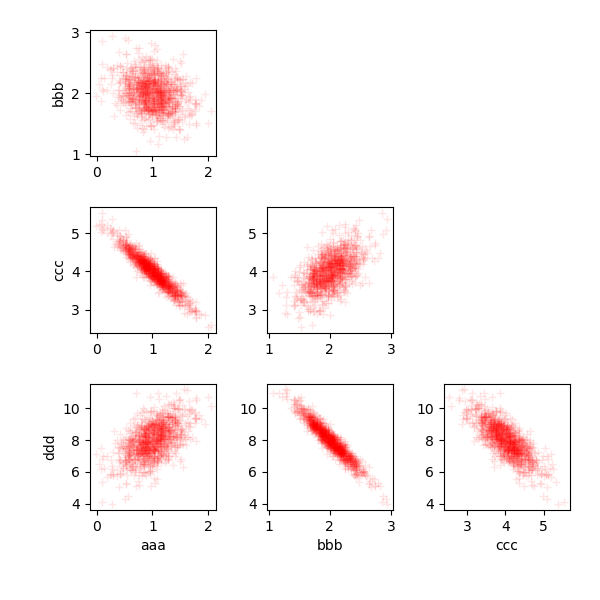
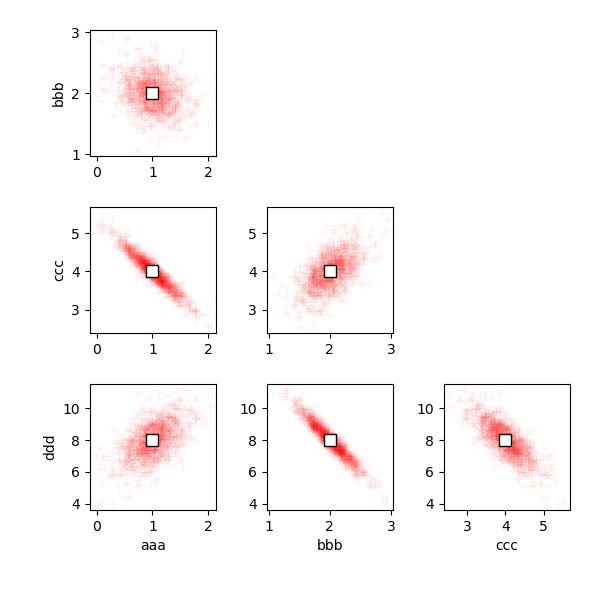
Add statement of intent to readme

diff --git a/stairplots.py b/stairplots.py
@@ -19,7 +19,7 @@ import matplotlib.pyplot as _ppl
 class Stairplots():
 
 	def __init__(self,
-		fields, labels,
+		fields, labels = None,
 		subplots_adjust = (.15, .15, .95, .95, .4, .4),
 		sharexy = True,
 		):
@@ -34,9 +34,9 @@ class Stairplots():
 		"""
 
 		self.fields = [_ for _ in fields]
-		self.labels = [_ for _ in labels]
+		self.labels = [_ for _ in fields] if labels is None else [_ for _ in labels]
 
-		_ppl.subplots_adjust(*subplots_adjust_args)
+		_ppl.subplots_adjust(*subplots_adjust)
 
 		N = len(labels)
 		axes = {}
@@ -60,15 +60,18 @@ class Stairplots():
 		Plot data in the proper location of a stairplot
 	
 		Parameters:
-			datadict (dict): a dictionary of the form `{f1: <array-like>, f2: <array-like>}`,
-				where `f1` and `f2` are the fields corresponding to each array-like to plot.
+			datadict (dict): a dictionary of the form `{f1: <array-like>, f2: <array-like>, ...}`,
+				where `f1`, `f2`, ... are fields corresponding to each array-like to plot.
 				These fields will determine which subplot to use, and whether each field
 				should plot along the X or Y axis.
 			*args, **kwargs: to be passed on to `plot()`
 	
 		Returns:
-			whatever `plot()` returns
+			List of values returned by `plot()`
 		"""
-		i, j = sorted([self.fields.index(_) for _ in datadict])
-		fi, fj = self.fields[i], self.fields[j]
-		return self.axes[(fi, fj)].plot(datadict[fi], datadict[fj], *args, **kwargs)
+		indices = sorted([self.fields.index(_) for _ in datadict])
+		fields = [self.fields[_] for _ in indices]
+		return [
+			self.axes[(fi, fj)].plot(datadict[fi], datadict[fj], *args, **kwargs)
+			for _, fi in enumerate(fields[:-1]) for fj in fields[_+1:]
+			]

diff --git a/stairplots_example.py b/stairplots_example.py
@@ -25,6 +25,9 @@ data = rng.multivariate_normal(
 	size = Ndata,
 	)
 
+data = {f: data[:,k] for k,f in enumerate(fields)}
+meandata = {_: data[_].mean() for _ in data}
+
 ### CREATE THE STAIRPLOTS ###
 
 from stairplots import *
@@ -33,13 +36,7 @@ import matplotlib.pyplot as ppl
 ppl.figure(figsize = (6,6))
 sp = Stairplots(fields, labels)
 
-for j in range(N):
-	for k in range(N):
-		if j<k:
-			sp.plot(
-				{fields[j]: data[:,j], fields[k]: data[:,k]},
-				'r+',
-				alpha = 0.1,
-				)
+sp.plot(data, 'r+', alpha = 0.05)
+sp.plot(meandata, 'ws', mec = 'k', mew = 1, ms = 8)
 
 ppl.savefig('stairplots.png')

diff --git a/readme.md b/readme.md
@@ -1,8 +1,27 @@
 # Stairplots
 
-Simple library to create stairplots in `matplotlib`. Stairplots provide a simple way to visualize multidimensional data, with each dimension plotted against every other dimension.
+Simple library to create stairplots in `matplotlib`. Stairplots provide a simple way to visualize multidimensional data, with each dimension plotted against every other dimension. The main goal is to let the user specify data and/or model predictions in arbitrary subsets of the multi-dimensional space and let the code take care of where to plot these values. Originally inspired by [corner.py](https://github.com/dfm/corner.py).
 
-## Example
+For example, you might have one set of (*x*, *y*) data, another set of (*y*, *z*) data, and a model predicting (*x*, *y*, *z*) trajectories. In that case, you could plot everything by simply calling:
+
+```py
+data_1 = dict(x = xdata1, y = ydata1)
+# xdata1 and ydata1 are two array-likes with identical shapes
+
+data_2 = dict(y = ydata2, z = zdata2)
+# ydata2 and zdata2 are two array-likes with identical shapes
+
+model = dict(x = xmodel, y = ymodel, z = zmodel)
+# xmodel, ymodel, and zmodel are three array-likes with identical shapes
+
+sp = Stairplots(['x', 'y', 'z'])
+
+sp.plot(data_1, 'ws', mec = 'r')
+sp.plot(data_2, 'wo', mec = 'b')
+sp.plot(model, 'g-', lw = 2)
+```
+
+## Complete example
 
 ```py
 ### GENERATE SOME RANDOM DATA ###
@@ -30,6 +49,9 @@ data = rng.multivariate_normal(
     size = Ndata,
     )
 
+data = {f: data[:,k] for k,f in enumerate(fields)}
+meandata = {_: data[_].mean() for _ in data}
+
 ### CREATE THE STAIRPLOTS ###
 
 from stairplots import *
@@ -38,14 +60,8 @@ import matplotlib.pyplot as ppl
 ppl.figure(figsize = (6,6))
 sp = Stairplots(fields, labels)
 
-for j in range(N):
-    for k in range(N):
-        if j<k:
-            sp.plot(
-                {fields[j]: data[:,j], fields[k]: data[:,k]},
-                'r+',
-                alpha = 0.1,
-                )
+sp.plot(data, 'r+', alpha = 0.05)
+sp.plot(meandata, 'ws', mec = 'k', mew = 1, ms = 8)
 
 ppl.savefig('stairplots.png')
 ```
